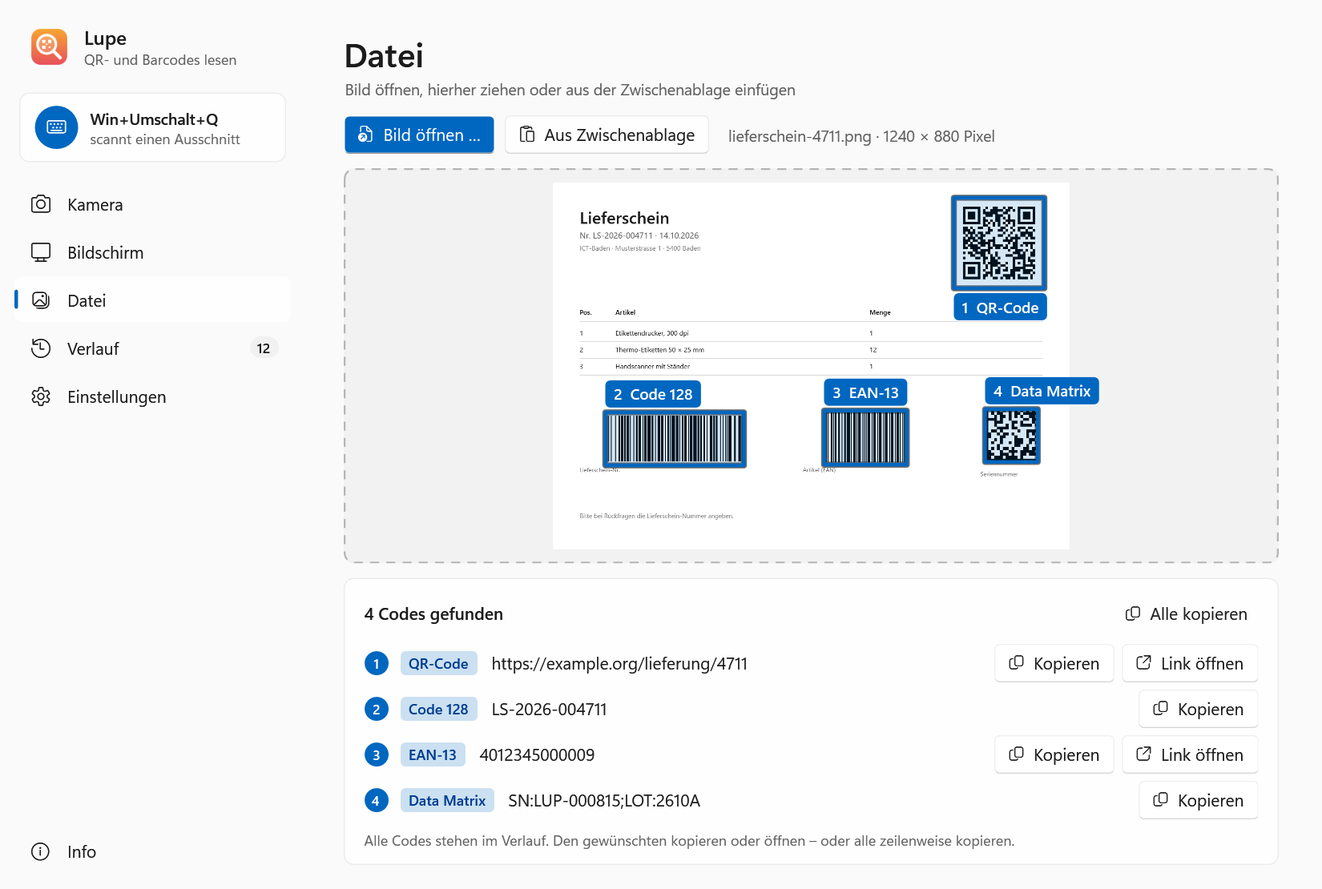
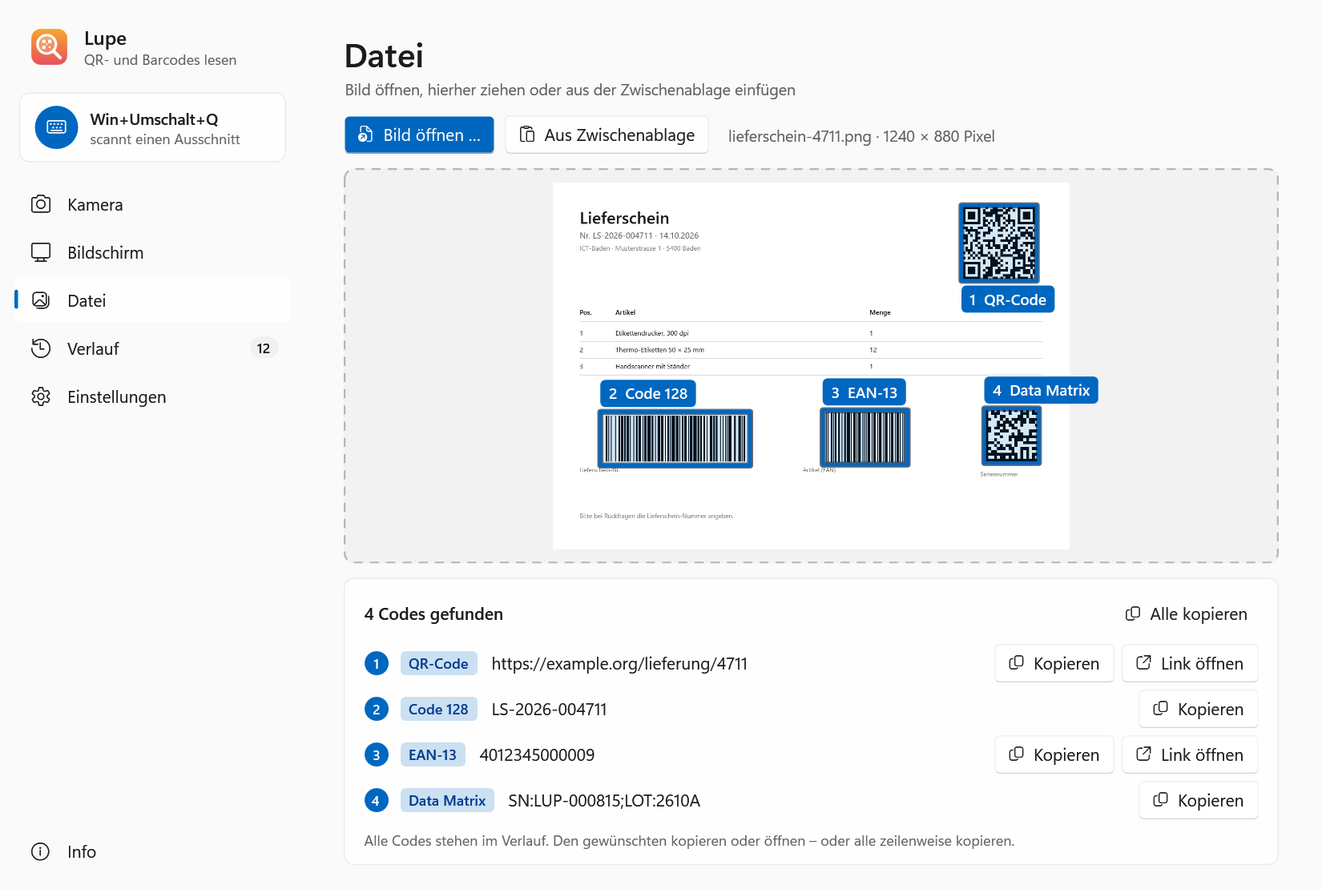
Doku: zxing-cpp, neue Formate, Ablauf der Erkennung, Bildschirmfotos neu
- README: 22 Formate mit Hinweisen, IMB nicht mehr, helle Codes, Lizenztexte.
- how-it-works: Lesegruppen, Stufen mit Messwerten, Textdarstellung wie bisher,
  Schutz vor Phantomcodes und widersprüchlichen Treffern, Kamera gegen gründliche Suche.
- limitations: was zxing-cpp nicht kann (MaxiCode nur sauber und gerade, winzige
  Strichcodes in verkleinerten Bildschirmfotos), Code 39 wie gedruckt, IMB entfällt.
- development, usage, settings, command-line angepasst.
- Bildschirmfotos mit „Lupe.exe --screenshots“ neu erzeugt (Codes von zxing-cpp, Info-Seite,
  QR-Rahmen aus den echten Ecken). Das Banner ist unverändert.

diff --git a/docs/how-it-works.md b/docs/how-it-works.md
@@ -10,7 +10,7 @@ What happens between a picture and a result: how Lupe gets images from the camer
 
 ```mermaid
 flowchart LR
-    K["Kamera<br>webcam frames"] --> L["Live search<br>first stage only"]
+    K["Kamera<br>webcam frames"] --> L["Live search<br>whole picture only"]
     B["Bildschirm<br>still image, rectangle"] --> T["Thorough search<br>two stages"]
     D["Datei / Zwischenablage<br>image file, PNG, bitmap"] --> T
     C["Befehlszeile<br>lesen"] --> TC["Thorough search<br>two stages"]
@@ -23,56 +23,57 @@ flowchart LR
     H --> N["Link öffnen<br>if a rule matches"]
 ```
 
-Every source ends up as the same thing – a picture of 32-bit pixels – and goes through the same decoder ([ZXing.Net](https://github.com/micjahn/ZXing.Net) 0.16.11 with Lupe's own search around it). The camera uses a lighter variant of it. For a hit in the app, Lupe beeps (*Ton bei Treffer*), adds every code to the history and runs the actions for one code – the only one, or the one you choose after a screen scan – in a fixed order: copy, type, open the link last, because the browser takes the focus. The command line only prints.
+Every source ends up as the same thing – a picture of 32-bit pixels – and goes through the same decoder ([zxing-cpp](https://github.com/zxing-cpp/zxing-cpp) 3.1.1 with Lupe's own search around it). The camera uses a lighter variant of it. For a hit in the app, Lupe beeps (*Ton bei Treffer*), adds every code to the history and runs the actions for one code – the only one, or the one you choose after a screen scan – in a fixed order: copy, type, open the link last, because the browser takes the focus. The command line only prints.
 
 ## Decoding
 
-The picture is converted to grey once and then searched in **stages**. Each stage consists of tasks – a version of the picture × normal or inverted × a group of readers – that run in parallel on all cores. Every reader group binarises the picture itself, so that one group's difficulties do not cost the others their result.
+The picture is converted to grey once and then handed to zxing-cpp, a native library (`ZXing.dll`). zxing-cpp by itself finds several codes per picture, codes in every 90° position, light QR, Data Matrix and Aztec codes on dark backgrounds, and large codes in reduced versions of the picture. Lupe only adds what measurements during the switch to zxing-cpp showed to help – the unit tests and a benchmark of 1,345 pictures with 1,357 known codes (zxing-cpp's own sample photos and generated screenshots, camera frames and documents).
 
-| Reader groups | Formats |
-|---|---|
-| 2D | QR Code, Data Matrix, Aztec, MaxiCode · PDF417 (own group) |
-| 1D | EAN/UPC · Code 128 and ITF · Code 39 · Code 93 and Codabar · GS1 DataBar and DataBar Expanded · Intelligent Mail |
+Each version of the picture is read in five **reading groups** in parallel – QR family (QR, Micro QR, rMQR) · Data Matrix · Aztec · PDF417 family and MaxiCode · barcodes – so that no single read takes long: a cancelled search waits at most for the longest one (about 0.3 s for a noisy 4K picture).
 
 **Stage 1 – always:**
 
-- **The whole picture**, with a white border of about 5 % of the longer side (8 to 48 pixels), so that codes reaching the edge still have their quiet zone.
-- **Large pictures** – above 4.2 megapixels, for example a 4K screenshot – are searched instead as an **overview** reduced to about 2.1 megapixels **plus overlapping tiles** of 1024 pixels in full resolution, overlapping by 320 pixels so that a code up to that size lies completely in one tile. Pictures above 12 megapixels are reduced before tiling, and there are at most 48 tiles. This is how small codes in big screenshots are found.
-- **Inverted** – light codes on dark backgrounds, common in dark mode and on displays – for the 2D formats.
-- **Several codes:** after a hit, the search continues left, right, above and below it. QR codes additionally go through ZXing's multi-QR reader, which separates codes that sit close together.
-- **Data Matrix and Aztec away from the centre:** ZXing's detectors for these two start in the middle of the picture and miss a code elsewhere in a busy picture. Lupe looks for areas with dense structure in both directions – many light/dark transitions horizontally and vertically – and reads a window around each candidate, at most 48 per picture.
+- **The whole picture** in full resolution.
+- **Inverted** for the formats zxing-cpp does not invert itself: barcodes, PDF417 and MaxiCode – a light barcode on a dark background, common in dark mode.
+- **Slanted barcodes and PDF417.** zxing-cpp reads QR, Data Matrix and Aztec at any angle, but a long barcode only up to about ±14° and PDF417 only up to about ±6°. Lupe therefore also reads the picture rotated by ±20° and ±40° (barcodes and PDF417) and ±10° and ±30° (PDF417 only); rotated versions are reduced to about 2.4 megapixels first. Together with zxing-cpp's own 90° check this covers every angle.
+- **Very large pictures** – above 9 megapixels, for example a 24-megapixel photo – are read as an **overview** reduced to about 4 megapixels **plus overlapping tiles** of 2048 pixels in full resolution, overlapping by 512 pixels, at most 32 tiles. A 4K screenshot (8.3 megapixels) is read in one piece.
 
-**Stage 2 – only if stage 1 found nothing** (or only a weak barcode fragment, see below):
+**Stage 2 – only if stage 1 found nothing reliable:** small pictures (longer side up to 1000 pixels, typically a screen region) **enlarged** ×2 – for codes with only one or two pixels per module. “Reliable” means any 2D code, or a barcode read on a band of at least 3 % of its length; a barcode read on only two or three rows of a blurry photo is often misread, and the enlarged version reads it correctly.
 
-- 1D formats **inverted**.
-- Small pictures **enlarged** ×2 (longer side up to 1000 pixels) and ×3 (up to 400 pixels) – for codes with only one or two pixels per module.
-- Medium pictures **halved** – smooths noise and blur.
-- **Rotated** in 10° steps up to ±40° for Aztec, PDF417 and Data Matrix; barcodes only at exactly ±30° (their own 90° check covers the rest). ZXing's Aztec and PDF417 detectors tolerate only a few degrees, and barcodes whose bars no image row crosses completely are otherwise not read. QR codes need no rotation. Rotated versions are reduced to about 2.4 megapixels first.
+All of this runs every time – a hard code next to an easy one is no longer missed because the easy one was found first. With the earlier library, Lupe searched slanted, inverted and enlarged versions only when nothing at all had been found.
 
-**The result** contains each content once per format, in reading order: codes whose heights overlap form a row, read left to right, rows top to bottom. Each code keeps its corner points for the outline – the four outer corners for QR codes and PDF417, the two ends of the reading line for barcodes.
+| Benchmark (1,357 codes) | Found |
+|---|---|
+| Earlier version (ZXing.Net) | 929 (68 %) |
+| zxing-cpp, whole picture only | 1,220 (90 %) |
+| + inverted | 1,223 |
+| + slanted | 1,229 |
+| + enlarged small pictures (stage 2) | 1,250 (92 %) |
 
-**Text encoding repair.** For byte content without a character-set marker, ZXing.Net under .NET sometimes takes ISO-8859-1 text for Shift_JIS and turns umlauts into `�` – “Groß” becomes “Gro�”. Lupe re-reads such a segment as ISO-8859-1, the default for QR codes without a marker. Real Shift_JIS content is not helped by this – see [Limitations](limitations.md#decoding).
+**The result** contains each content once per format, in reading order: codes whose heights overlap form a row, read left to right, rows top to bottom (for barcodes the band of rows zxing-cpp read counts, not just the reading line). Each code keeps its points for the outline – the four corners for 2D codes, the two ends of the reading line for barcodes.
+
+**Text.** zxing-cpp decodes byte content by its ECI marker or, without one, by recognising UTF-8, ISO-8859-1 and Shift_JIS. The group separator of GS1 codes (`\x1D`) stays in the text. Lupe keeps the text of its earlier versions where zxing-cpp would show it differently: UPC-A with 12 digits and UPC-E with 8 (zxing-cpp normalises both to the 13-digit GTIN), Codabar without its start and stop characters, GS1 DataBar as the 14-digit GTIN without `01`, GS1 DataBar Expanded in brackets (`(01)…(3103)…`).
 
 ## Live vs. thorough
 
 | | Camera | Screen scan, file, clipboard, command line |
 |---|---|---|
-| Stages | stage 1 only | stage 1 and, if needed, stage 2 |
+| What | the whole picture: 2D codes and barcodes as two reads, inverted only PDF417 and MaxiCode | everything above, including slanted and enlarged versions |
 | Parallel tasks | a quarter of the cores, at least 1, at most 2 | all cores |
+| Time (this PC) | about 20 ms for a 720p camera frame, 35 ms for a busy one | Full HD screenshot about 50 ms, 4K about 0.15 s |
 | Why | the next frame is a new chance anyway, and the PC should not run under permanent full load | one picture, as thorough as possible |
 
 On the camera, Lupe never runs more than one search at a time and keeps no queue: frames that arrive while a search runs are shown in the preview but not searched.
 
 ## Phantom-code protection
 
-Barcode readers sometimes “find” a valid-looking code in noise, text or a slanted view of another code. Lupe works against that in several places:
+Barcode readers sometimes “find” a valid-looking code in noise, text or a slanted view of another code. The benchmark's 58 pictures without any code and the unit tests' busy screenshots and noisy camera pictures produce no phantom codes. Lupe works against them in several places:
 
-- **Excluded formats.** MSI and Pharmacode are not read at all: their readers produce phantom codes (e.g. “000”) in almost every screenshot, camera picture and noise, and slowed the search down by up to 30 times. Plessey cannot be read by ZXing.Net.
-- **Two lines for barcodes.** A 1D code only counts once the same content has been read on at least two image rows. A single slanted row otherwise produces an occasional code with a matching check digit – typically an EAN-8 or UPC-E in the middle of another barcode.
-- **Fragments are removed.** ITF has no check digit, EAN-8 and UPC-E only one. A code of these “weak” formats is dropped if its content is part of a longer barcode at the same place – e.g. a phantom EAN-8 `60002914` from a UPC-A `036000291452`. A weak hit alone also does not stop stage 2.
-- **GS1 DataBar Expanded only in one row.** ZXing's stacked mode combines rows from anywhere in the picture until a checksum happens to fit – measured during development in about one in a hundred busy screenshots and one in ten noisy camera pictures, sometimes with empty content.
-- **Empty contents are discarded.** A hit without text is a phantom and useless to anyone.
-- **Faults in a reader cost only that reader's result.** ZXing occasionally throws on broken data; that counts as “nothing found” for this task, not as an error of the scan.
+- **Excluded formats.** MSI and Pharmacode are not read: their readers produced phantom codes in almost every screenshot. Code 39 Full ASCII and Code 32 are not interpreted – they would silently change ordinary Code 39 content (`S/N1` would become `S.1`).
+- **Two lines for barcodes.** zxing-cpp only accepts a barcode once the same content has been read on at least two rows.
+- **Contradictions at the same place.** When a rotated or reduced version reads a code differently than another version at the same place – a PDF417 cut at an angle whose rows end up shuffled but just pass the error correction, or an EAN-8 made from part of a UPC-A – the more reliable read wins: the one with more unused error correction (2D codes), the one read on more rows (barcodes), otherwise the one from the whole picture.
+- **Fragments are removed.** ITF has no check digit, EAN-8 and UPC-E only one. A code of these “weak” formats is dropped if it lies inside another barcode, or if its content is part of a longer barcode right next to it – e.g. a short ITF from the lower rows of a slanted long one. A barcode read on only a few rows at the edge of the same kind of code, with different content, is dropped as well.
+- **Faults in a read cost only that read's result.** If zxing-cpp reports an error, that counts as “nothing found” for this task, not as an error of the scan.
 
 ## Image files
 

diff --git a/README.md b/README.md
@@ -163,29 +163,34 @@ Wildcards, `--format`, encoding and why a command prompt needs `start /wait`: **
 
 ## Supported formats
 
-Lupe reads 17 formats with [ZXing.Net](https://github.com/micjahn/ZXing.Net) 0.16.11. All are active by default; *Einstellungen › Formate* can limit them. The column *Name* is what the option `--format` and the settings file expect.
+Lupe reads 22 formats with [zxing-cpp](https://github.com/zxing-cpp/zxing-cpp) 3.1.1 (NuGet package `ZXingCpp` 0.5.3). All are active by default; *Einstellungen › Formate* can limit them. The column *Name* is what the option `--format` and the settings file expect – the names of the earlier versions are unchanged.
 
 | Format | Name | Kind | Notes |
 |---|---|---|---|
-| QR Code | `QR_CODE` | 2D | several codes close together are separated |
-| Data Matrix | `DATA_MATRIX` | 2D | also searched away from the centre of busy images |
-| Aztec | `AZTEC` | 2D | also searched away from the centre of busy images |
-| PDF417 | `PDF_417` | 2D (stacked) |  |
-| MaxiCode | `MAXICODE` | 2D | only from clean images – see [Limitations](docs/limitations.md#decoding) |
-| Code 128 | `CODE_128` | 1D |  |
+| QR Code | `QR_CODE` | 2D | Model 1 and 2; several codes close together are separated |
+| Data Matrix | `DATA_MATRIX` | 2D | square and rectangular |
+| Aztec | `AZTEC` | 2D | Aztec runes are not read |
+| PDF417 | `PDF_417` | 2D (stacked) | also Compact PDF417 |
+| MaxiCode | `MAXICODE` | 2D | only from clean, upright images – see [Limitations](docs/limitations.md#decoding) |
+| Micro QR Code | `MICRO_QR_CODE` | 2D | new in this version |
+| rMQR Code | `RMQR_CODE` | 2D | rectangular Micro QR, new |
+| MicroPDF417 | `MICRO_PDF_417` | 2D (stacked) | new |
+| Code 128 | `CODE_128` | 1D | GS1-128 with the group separator (`\x1D`) after variable-length fields |
 | Code 39 | `CODE_39` | 1D | read as printed: a check digit is not verified, Full ASCII is not expanded |
 | Code 93 | `CODE_93` | 1D |  |
-| Codabar | `CODABAR` | 1D |  |
-| ITF (Interleaved 2 of 5) | `ITF` | 1D |  |
+| Codabar | `CODABAR` | 1D | without the start and stop characters |
+| ITF (Interleaved 2 of 5) | `ITF` | 1D | also ITF-14 |
 | EAN-13, EAN-8 | `EAN_13`, `EAN_8` | 1D | without the 2- or 5-digit add-on |
-| UPC-A, UPC-E | `UPC_A`, `UPC_E` | 1D | without the 2- or 5-digit add-on |
-| GS1 DataBar | `RSS_14` | 1D | also the stacked variant |
-| GS1 DataBar Expanded | `RSS_EXPANDED` | 1D | single row only, not stacked |
-| Intelligent Mail (USPS) | `IMB` | 4-state | enabled, but not covered by a test image |
+| UPC-A, UPC-E | `UPC_A`, `UPC_E` | 1D | 12 and 8 digits, without the add-on |
+| GS1 DataBar | `RSS_14` | 1D | also the stacked variants; the 14-digit GTIN |
+| GS1 DataBar Expanded | `RSS_EXPANDED` | 1D | single row and stacked; text in brackets, `(01)…(3103)…` |
+| GS1 DataBar Limited | `RSS_LIMITED` | 1D | new; the 14-digit GTIN |
+| Telepen | `TELEPEN` | 1D | new |
+| DX film edge | `DX_FILM_EDGE` | 1D | new; the code on the edge of 35 mm film |
 
-Light codes on dark backgrounds – dark mode, displays – are read in every format by the screen scan, files, the clipboard and the command line; light barcodes (1D) only when no other code was found first. The camera reads light-on-dark 2D codes only.
+Light codes on dark backgrounds – dark mode, displays – are read in every format by the screen scan, files, the clipboard and the command line, also next to dark-on-light codes. The camera reads light 2D codes (QR, Data Matrix, Aztec, PDF417, MaxiCode), not light barcodes.
 
-**Not supported, on purpose:** MSI and Pharmacode – their readers “find” phantom codes in almost every screenshot and camera image and slow the search down considerably; Plessey – ZXing.Net can write it but not read it. Why and how the search works: **[How it works →](docs/how-it-works.md)**
+**Not supported:** Intelligent Mail (`IMB`) – the earlier library read it, zxing-cpp does not; MSI, Pharmacode and Plessey. Why and how the search works: **[How it works →](docs/how-it-works.md)**
 
 ## Compared with Barcode-Reader
 
@@ -227,7 +232,7 @@ Lupe is a rewrite of Till's [Barcode-Reader](https://github.com/pieewiee/Barcode
     <td valign="top"><a href="docs/limitations.md"><b>Limitations</b></a><br><sub>What was not tested on real hardware, elevated windows, control characters, encodings and other honest limits</sub></td>
   </tr>
   <tr>
-    <td colspan="2" valign="top"><a href="docs/development.md"><b>Development</b></a><br><sub>Building with .NET 10, about 1,200 tests and which ones skip themselves, architecture, CI and releases, MSI, regenerating the screenshots</sub></td>
+    <td colspan="2" valign="top"><a href="docs/development.md"><b>Development</b></a><br><sub>Building with .NET 10, about 1,300 tests and which ones skip themselves, architecture, CI and releases, MSI, regenerating the screenshots</sub></td>
   </tr>
 </table>
 
@@ -236,10 +241,10 @@ Lupe is a rewrite of Till's [Barcode-Reader](https://github.com/pieewiee/Barcode
 - **No real webcam during development.** The camera path is tested against a simulated frame source only. Screen capture, the global shortcut and typing have tests that need a visible desktop; they skip themselves in the build environment and on CI.
 - **Windows protects elevated windows.** Lupe cannot type into a program that runs as administrator unless Lupe runs as administrator too. It detects this, types nothing and says so in the result notification.
 - **Control characters are not typed.** The group separator in GS1 codes, for example, is dropped when typing; the command line shows it as `\x1D`.
-- **Some contents and formats:** QR codes with Shift_JIS (Japanese Kanji) text may be decoded wrongly – a ZXing.Net limitation. MaxiCode is only found in clean images.
+- **MaxiCode** is only found in clean, upright images.
 - **Command line into a pipe** uses the console's code page; characters outside it are replaced. Redirect into a file for lossless UTF-8.
 - **Pre-release 0.1.0, not code-signed.** SmartScreen may warn.
-- **No licence yet.** The licence has not been decided; the repository contains no licence file.
+- **No licence yet.** The licence has not been decided; the repository contains no licence file. The licences of the bundled third-party components (zxing-cpp with libzint and libzueci, C#/WinRT, .NET) are in [THIRD-PARTY-NOTICES.txt](THIRD-PARTY-NOTICES.txt), which ships next to `Lupe.exe` and opens from *Info › Erkennung › Lizenztexte*.
 
 Everything else: **[Limitations →](docs/limitations.md)**
 

diff --git a/docs/development.md b/docs/development.md
@@ -39,7 +39,7 @@ The version comes from `<Version>` in `src/Lupe/Lupe.csproj` (currently `0.1.0`)
 dotnet test Lupe.sln
 ```
 
-The xUnit project `tests/Lupe.Tests` has about 1,200 test cases. Tests that need something the machine may not have **skip themselves** with a reason instead of failing – check the skipped count before you trust a green run:
+The xUnit project `tests/Lupe.Tests` has about 1,300 test cases. Tests that need something the machine may not have **skip themselves** with a reason instead of failing – check the skipped count before you trust a green run:
 
 | Attribute | Runs only … | Skipped … |
 |---|---|---|
@@ -57,7 +57,7 @@ The camera tests that run in real time (`Camera/ScanLoopRealtimeTests` and `Came
 
 | Tests | Check |
 |---|---|
-| `Decoding/*` | Round trip of every format ZXing.Net can write; small, rotated, slanted, inverted, noisy and blurred codes, several per picture, small codes in 4K screenshots; DataBar and MaxiCode from images made with zxing-cpp; phantom codes in busy pictures; Latin-1 repair; image files in every format, truncated files, size limit |
+| `Decoding/*` | Round trip of all 22 formats (codes written with zxing-cpp); small, rotated, slanted, inverted, noisy and blurred codes, several per picture, hard codes next to easy ones, small codes in 4K screenshots; the new formats; GS1 group separator, ECI, Shift_JIS, binary content; contradicting reads and barcode fragments; phantom codes in busy pictures; native objects in long runs; image files in every format, truncated files, size limit |
 | `Camera/*` | Scan loop with a simulated frame source – throttling, repeat suppression, start/stop from its own events, real-time behaviour; format choice, frame conversion, error classification, camera list |
 | `Screen/*` | Monitors and virtual desktop in physical pixels, copying from an in-memory drawing surface, real screenshots of a test window (desktop only) |
 | `Input/*` | Typing sequence against a simulated keyboard (batches, held keys, partial input), real typing into a Win32 text box (desktop only), shortcut registration against a simulated Windows API, AltGr protection, shortcut text in German and English, elevation check |
@@ -101,12 +101,12 @@ flowchart TB
 | `src/Lupe.Core/Input` | `KeyboardTyper`, `Elevation` (integrity check), `GlobalHotkey`, `HotkeyText` (display and parsing), `AltGr` |
 | `src/Lupe.Core/History` | `HistoryStore`, `HistoryFile` (JSON), `HistoryCsv` |
 | `src/Lupe.Core/Settings` | `SettingsStore` (tolerant loading, normalising), `SettingsFile` (backup, merge of a locked file), `LinkRules`, `AtomicFile` |
-| `src/Lupe` | `Program.cs` (entry point: command line without WPF, or the window), `App.xaml.cs` (window, tray, shortcut), `AppState` (shared state), `Cli/` (`CommandLine`, `ConsoleSession`), `UI/` (pages, `SelectionOverlay`, `ResultToast`, `CodeChoiceWindow`, `TrayIcon`, Fluent theme shared in style with Zutritt and Vitrine), `Services/` (`Hits` – the hit pipeline, `Desktop` – beep, clipboard, browser, typing, `Autostart`, `SingleInstance`), `Demo/` (demo data, all codes generated with ZXing) |
+| `src/Lupe` | `Program.cs` (entry point: command line without WPF, or the window), `App.xaml.cs` (window, tray, shortcut), `AppState` (shared state), `Cli/` (`CommandLine`, `ConsoleSession`), `UI/` (pages, `SelectionOverlay`, `ResultToast`, `CodeChoiceWindow`, `TrayIcon`, Fluent theme shared in style with Zutritt and Vitrine), `Services/` (`Hits` – the hit pipeline, `Desktop` – beep, clipboard, browser, typing, `Autostart`, `SingleInstance`), `Demo/` (demo data, all codes generated with zxing-cpp) |
 | `installer/` | WiX 5 MSI |
 | `tests/Lupe.Tests` | xUnit tests |
 | `tools/screenshots` | Generator for the documentation images |
 
-The only NuGet dependency of the core is `ZXing.Net` 0.16.11 (Apache-2.0). Code comments, some identifiers and all user-facing text are in German.
+The only NuGet dependency of the core is `ZXingCpp` 0.5.3 (Apache-2.0): the .NET wrapper of zxing-cpp 3.1.1 with the native `ZXing.dll` (x64 and arm64, here `runtimes/win-x64/native`), which also contains libzint and libzueci (BSD-3-Clause). A publish for `win-x64` puts `ZXing.dll` next to `Lupe.exe`; the single-file `Lupe.exe` carries it inside and extracts it on first start (`IncludeNativeLibrariesForSelfExtract`). Licence texts of all third-party components: [`THIRD-PARTY-NOTICES.txt`](../THIRD-PARTY-NOTICES.txt) – copied next to `Lupe.exe` and embedded for the *Info* page; update it together with the package. Code comments, some identifiers and all user-facing text are in German.
 
 ## MSI
 
@@ -144,7 +144,7 @@ The script
 1. builds Lupe (Release) and runs `Lupe.exe --screenshots <temp>`: every page of the demo, light and dark, with the window at 1100 × 740 and 1.5× scale (1650 × 1110 pixels), plus the selection overlay over a demo desktop (1600 × 900) and the result notification – off-screen and never activated, so no visible desktop is needed. The German file names are mapped to the English ones used here (`kamera` → `camera`, `bildschirm` → `screen`, `auswahl` → `selection`, `treffer` → `result`, `datei` → `file`, `verlauf` → `history`, `einstellungen` → `settings`, `info` → `about`);
 2. renders `banner.html` to `banner.png` (2560 × 840) with the installed Google Chrome through playwright-core (`CHROME_PATH` for another browser). The banner uses `file-light.png` from step 1.
 
-The screenshots use fixed data: a fixed time (14 October 2026, 10:42; `--demo` uses the current time), links only to reserved example domains (`example.org`, `example.com`, `.example`), and codes generated by ZXing – the codes in the screenshots are real and readable.
+The screenshots use fixed data: a fixed time (14 October 2026, 10:42; `--demo` uses the current time), links only to reserved example domains (`example.org`, `example.com`, `.example`), and codes generated by zxing-cpp – the codes in the screenshots are real and readable.
 
 ## Demo and screenshot switches
 

diff --git a/docs/limitations.md b/docs/limitations.md
@@ -22,22 +22,21 @@ What Lupe cannot do, what was not tested the way it will be used, and the pitfal
 
 ## Decoding
 
-- **The thorough second stage only runs when the first found nothing.** If a picture contains one easy and one hard code – very small, blurred, slanted – the easy one can stop the search before the hard one is tried. Select or crop the hard code on its own.
-- **MaxiCode only from clean images.** ZXing's MaxiCode reader has no detector that searches a larger picture: the code has to be practically alone on a plain background, e.g. a cropped image.
-- **Shift_JIS content** (QR codes with Japanese Kanji) may be decoded wrongly – ZXing.Net has no Shift_JIS code page under .NET and falls back to UTF-8. Lupe's repair only covers ISO-8859-1 text that ZXing mistakes for Shift_JIS.
-- **Intelligent Mail (`IMB`) is enabled but untested.** ZXing.Net has a reader for it, but there is no test image for this format.
-- **Code 39** is read as printed: a check digit is not verified, Full ASCII sequences are not expanded.
+- **Very small barcodes in reduced screenshots.** A barcode shown at about one pixel per bar – for example in a document preview scaled to half size – is usually not readable; a QR code at that size often is. Zoom in or open the original.
+- **MaxiCode only from clean, upright images.** zxing-cpp's MaxiCode reader has no detector that searches a larger picture: the code has to be the only dark thing on a plain background and must not be rotated, noisy or part of a busy picture.
+- **Code 39** is read as printed: a check digit is not verified, Full ASCII sequences (`+A` for `a`, `/N` for `.`) are not expanded, Code 32 (Italian pharmacy code) is not converted – like hardware scanners in their factory setting.
 - **EAN/UPC add-ons** (2 or 5 digits) are not part of the result.
-- **GS1 DataBar Expanded** is read in a single row only, not stacked.
-- **Not supported at all:** MSI, Pharmacode (phantom codes) and Plessey (ZXing.Net cannot read it) – see [How it works › Phantom-code protection](how-it-works.md#phantom-code-protection).
+- **Misreads in very blurry product photos.** In a handful of zxing-cpp's own sample photos of strongly blurred UPC codes, a wrong but check-digit-valid EAN-13 is read. The earlier version had the same problem.
+- **Not supported at all:** Intelligent Mail (`IMB`, read by earlier versions of Lupe – zxing-cpp has no reader for it), MSI, Pharmacode, Plessey and Aztec runes – see [How it works › Phantom-code protection](how-it-works.md#phantom-code-protection). History entries with `IMB` stay visible; a settings file that lists only `IMB` means “all formats”.
+- **Two identical codes in one picture** are reported once (same format, same content).
 - **Very large pictures** are reduced to 40 megapixels while loading. Codes with very fine modules in huge photos can be lost by that.
 
 ## Camera
 
 - **Fixed resolution.** Lupe picks a camera format near 1280 × 720 and searches at most that. A small code far away from the camera needs to come closer.
 - **No camera controls.** Lupe does not set focus, zoom, exposure or a light; it uses what the driver does by itself.
-- **Live search only.** The camera uses the fast first stage; the thorough search with enlarged and rotated versions is reserved for the screen scan and files.
-- **No light-on-dark barcodes from the camera.** The live search reads inverted codes with the 2D readers only; a light 1D barcode on a dark background is not found there. A photo of it on the page *Datei* gets the thorough search.
+- **Live search only.** The camera reads the whole frame; the slanted and enlarged versions of the thorough search are reserved for the screen scan and files. A barcode held at a steep angle is found once you hold it straighter.
+- **No light-on-dark barcodes from the camera.** The live search reads light 2D codes (QR, Data Matrix, Aztec, PDF417, MaxiCode), but not a light 1D barcode on a dark background. A photo of it on the page *Datei* gets the thorough search.
 - **Shared mode.** If another program holds the camera, Lupe may get it only in shared read-only mode with that program's format, or not at all.
 - **No typing from the camera** – Lupe is the active window then. Copy, or use the screen scan.
 

diff --git a/docs/settings.md b/docs/settings.md
@@ -66,7 +66,7 @@ How links are built, examples and the safety checks: **[Link rules](link-rules.m
 
 ## Formats
 
-***Alle Formate erkennen*** (recognise all formats) – on by default. Switched off, all 17 formats are listed, with only the common ones ticked at first: QR Code, Data Matrix, EAN-13, EAN-8, Code 128, Code 39, ITF and UPC-A. At least one format has to stay ticked; ticking all of them is the same as *Alle Formate erkennen*.
+***Alle Formate erkennen*** (recognise all formats) – on by default. Switched off, all 22 formats are listed, with only the common ones ticked at first: QR Code, Data Matrix, EAN-13, EAN-8, Code 128, Code 39, ITF and UPC-A. At least one format has to stay ticked; ticking all of them is the same as *Alle Formate erkennen*.
 
 Fewer formats mean a faster search and fewer chances for a false hit in pictures with a lot of text (*schneller und weniger Fehlerkennungen bei Bildern mit viel Text*). The selection applies to the camera, the screen scan, files and the clipboard. The command line has its own option, `--format`, and ignores this setting.
 
@@ -135,7 +135,7 @@ Path: `%LocalAppData%\Lupe\einstellungen.json` – shown at the bottom of the pa
 | `Actions`, `ScreenActions` | `Keine`, or a comma-separated combination of `Kopieren`, `Eintippen`, `LinkOeffnen`, e.g. `"Kopieren, Eintippen"`. `Eintippen` in `Actions` has no effect. |
 | `TypeSuffix` | `""`, `"Enter"` or `"Tab"` |
 | `LinkRules` | list of `Pattern` (.NET regular expression), `Prefix`, `Enabled` |
-| `Formats` | `[]` = all, otherwise names such as `"QR_CODE"`, `"EAN_13"` – see [Supported formats](../README.md#supported-formats) |
+| `Formats` | `[]` = all, otherwise names such as `"QR_CODE"`, `"EAN_13"` – see [Supported formats](../README.md#supported-formats). Names Lupe does not know (or no longer reads, such as `IMB`) are dropped when the file is loaded |
 | `ScreenHotkey` | `Ctrl`, `Alt`, `Shift`, `Win` and `Key` – a Windows virtual-key code (`81` = Q) |
 | `RepeatSuppressMs` | milliseconds, 0 to 3,600,000 |
 | `Camera` | the camera's identifier, `""` = the first camera |

diff --git a/docs/usage.md b/docs/usage.md
@@ -159,10 +159,10 @@ Changes apply and are saved immediately – there is no *Save* button. The page 
 
 <picture>
   <source media="(prefers-color-scheme: dark)" srcset="assets/screenshots/about-dark.png">
-  <img alt="Info page: Lupe version 0.1.0 and .NET version; publisher ICT-Baden; licence not yet determined; source code link with “Im Browser öffnen”; origin from Barcode-Reader with “Ansehen”; recognition with ZXing.Net; “Ihre Daten” with “Ordner öffnen”; the heading Befehlszeile." src="assets/screenshots/about-light.png" width="900">
+  <img alt="Info page: Lupe version 0.1.0 and .NET version; publisher ICT-Baden; licence not yet determined; source code link with “Im Browser öffnen”; origin from Barcode-Reader with “Ansehen”; recognition with zxing-cpp and the button “Lizenztexte”; “Ihre Daten” with “Ordner öffnen”; the heading Befehlszeile." src="assets/screenshots/about-light.png" width="900">
 </picture>
 
-Version and .NET version, publisher, *Lizenz: Die Lizenz ist noch nicht festgelegt.* (the licence has not been decided yet), the source code link, the origin (*Herkunft*: rewrite of Barcode-Reader), the decoding library (*Erkennung*: ZXing.Net, Apache-2.0), *Ihre Daten* (your data) with *Ordner öffnen* for `%LocalAppData%\Lupe`, a short introduction to the command line with the exit codes, and the keyboard shortcuts (*Tastatur*).
+Version and .NET version, publisher, *Lizenz: Die Lizenz ist noch nicht festgelegt.* (the licence has not been decided yet), the source code link, the origin (*Herkunft*: rewrite of Barcode-Reader), the decoding library (*Erkennung*: zxing-cpp, Apache-2.0, with libzint and libzueci, BSD-3-Clause; *Lizenztexte* opens the licence texts of all bundled components), *Ihre Daten* (your data) with *Ordner öffnen* for `%LocalAppData%\Lupe`, a short introduction to the command line with the exit codes, and the keyboard shortcuts (*Tastatur*).
 
 ## Workflows
 

diff --git a/docs/command-line.md b/docs/command-line.md
@@ -40,10 +40,10 @@ Lupe.exe lesen C:\Scans\*.png --format QR_CODE,EAN_13
 - **Environment variables** such as `%USERPROFILE%\Scans\*.png` are expanded by Lupe itself, so they also work in PowerShell.
 - **A folder** is not accepted – give a pattern instead: *„C:\Scans“ ist ein Ordner – bitte Bilder angeben, z. B. C:\Scans\\\*.png*.
 
-**`--format <format>`** – search only these formats. Several can be given with commas, semicolons or by repeating the option; `--format=QR_CODE` works as well. Upper/lower case, hyphens and underscores do not matter (`qr-code`, `EAN13`), and `qr` stands for `QR_CODE`. The names are the ones in the [format table](../README.md#supported-formats). An unknown name stops the call before any image is read:
+**`--format <format>`** – search only these formats. Several can be given with commas, semicolons or by repeating the option; `--format=QR_CODE` works as well. Upper/lower case, hyphens and underscores do not matter (`qr-code`, `EAN13`); `qr`, `microqr` and `rmqr` stand for `QR_CODE`, `MICRO_QR_CODE` and `RMQR_CODE`. The names are the ones in the [format table](../README.md#supported-formats). An unknown name stops the call before any image is read:
 
 ```text
-Fehler: Unbekanntes Format „foo“. Möglich: QR_CODE, DATA_MATRIX, AZTEC, PDF_417, … RSS_EXPANDED, IMB.
+Fehler: Unbekanntes Format „foo“. Möglich: QR_CODE, DATA_MATRIX, AZTEC, PDF_417, … TELEPEN, DX_FILM_EDGE.
 Hilfe: Lupe.exe --hilfe
 ```
 
